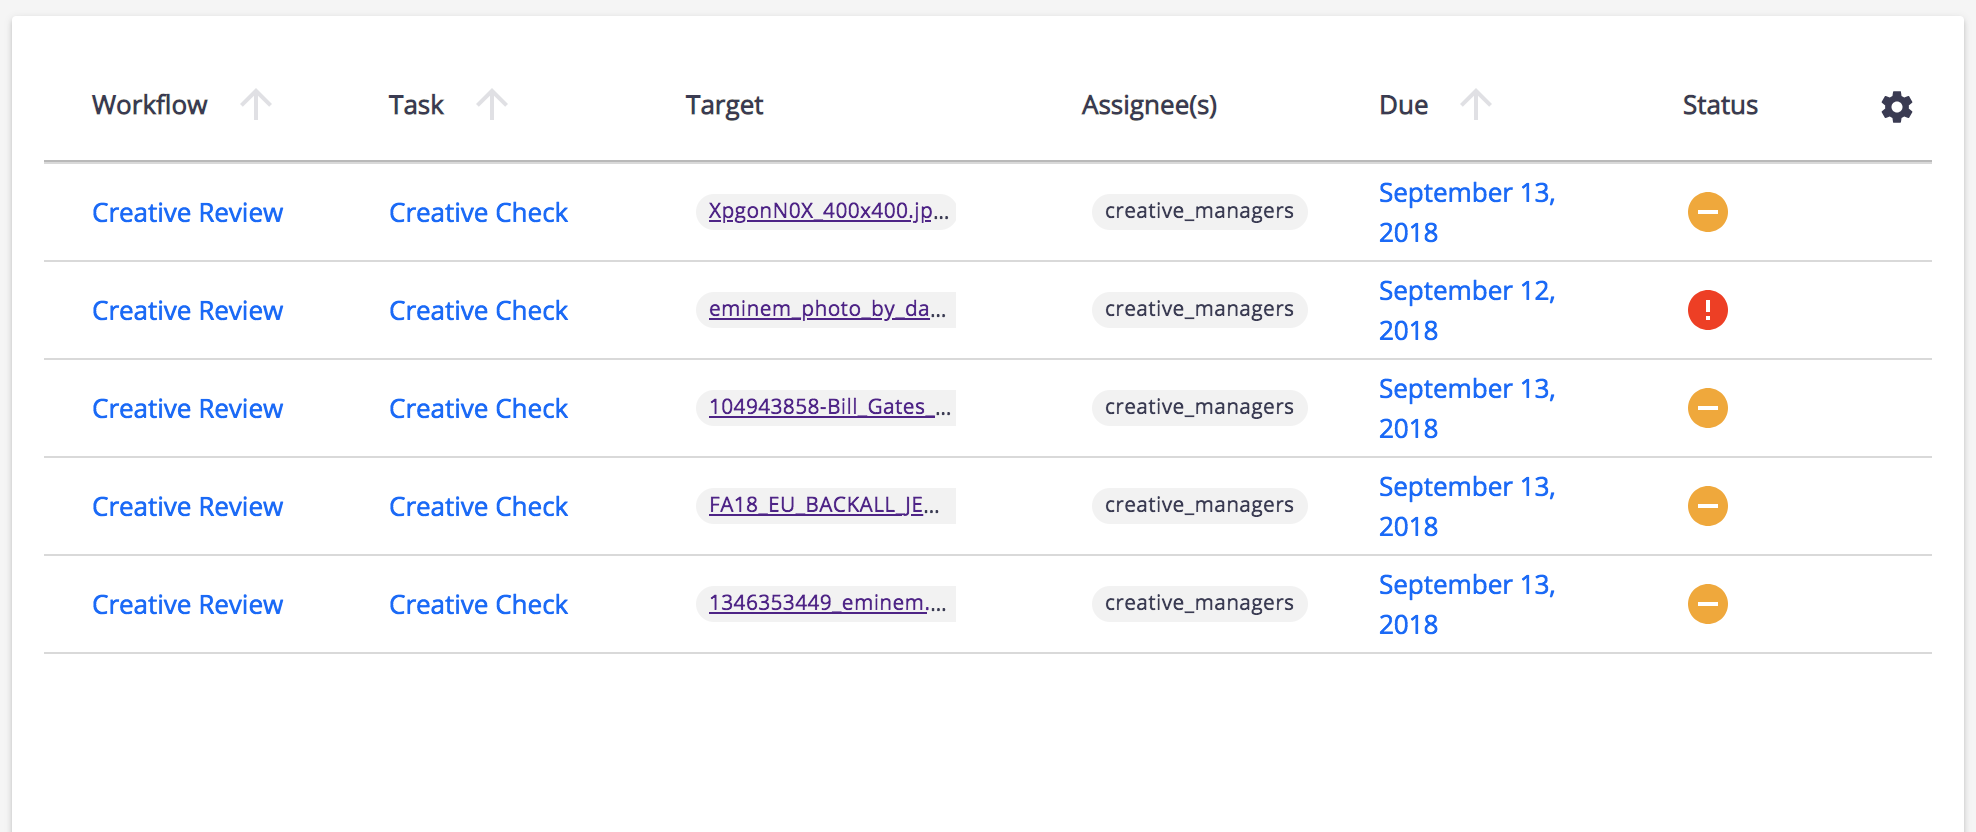
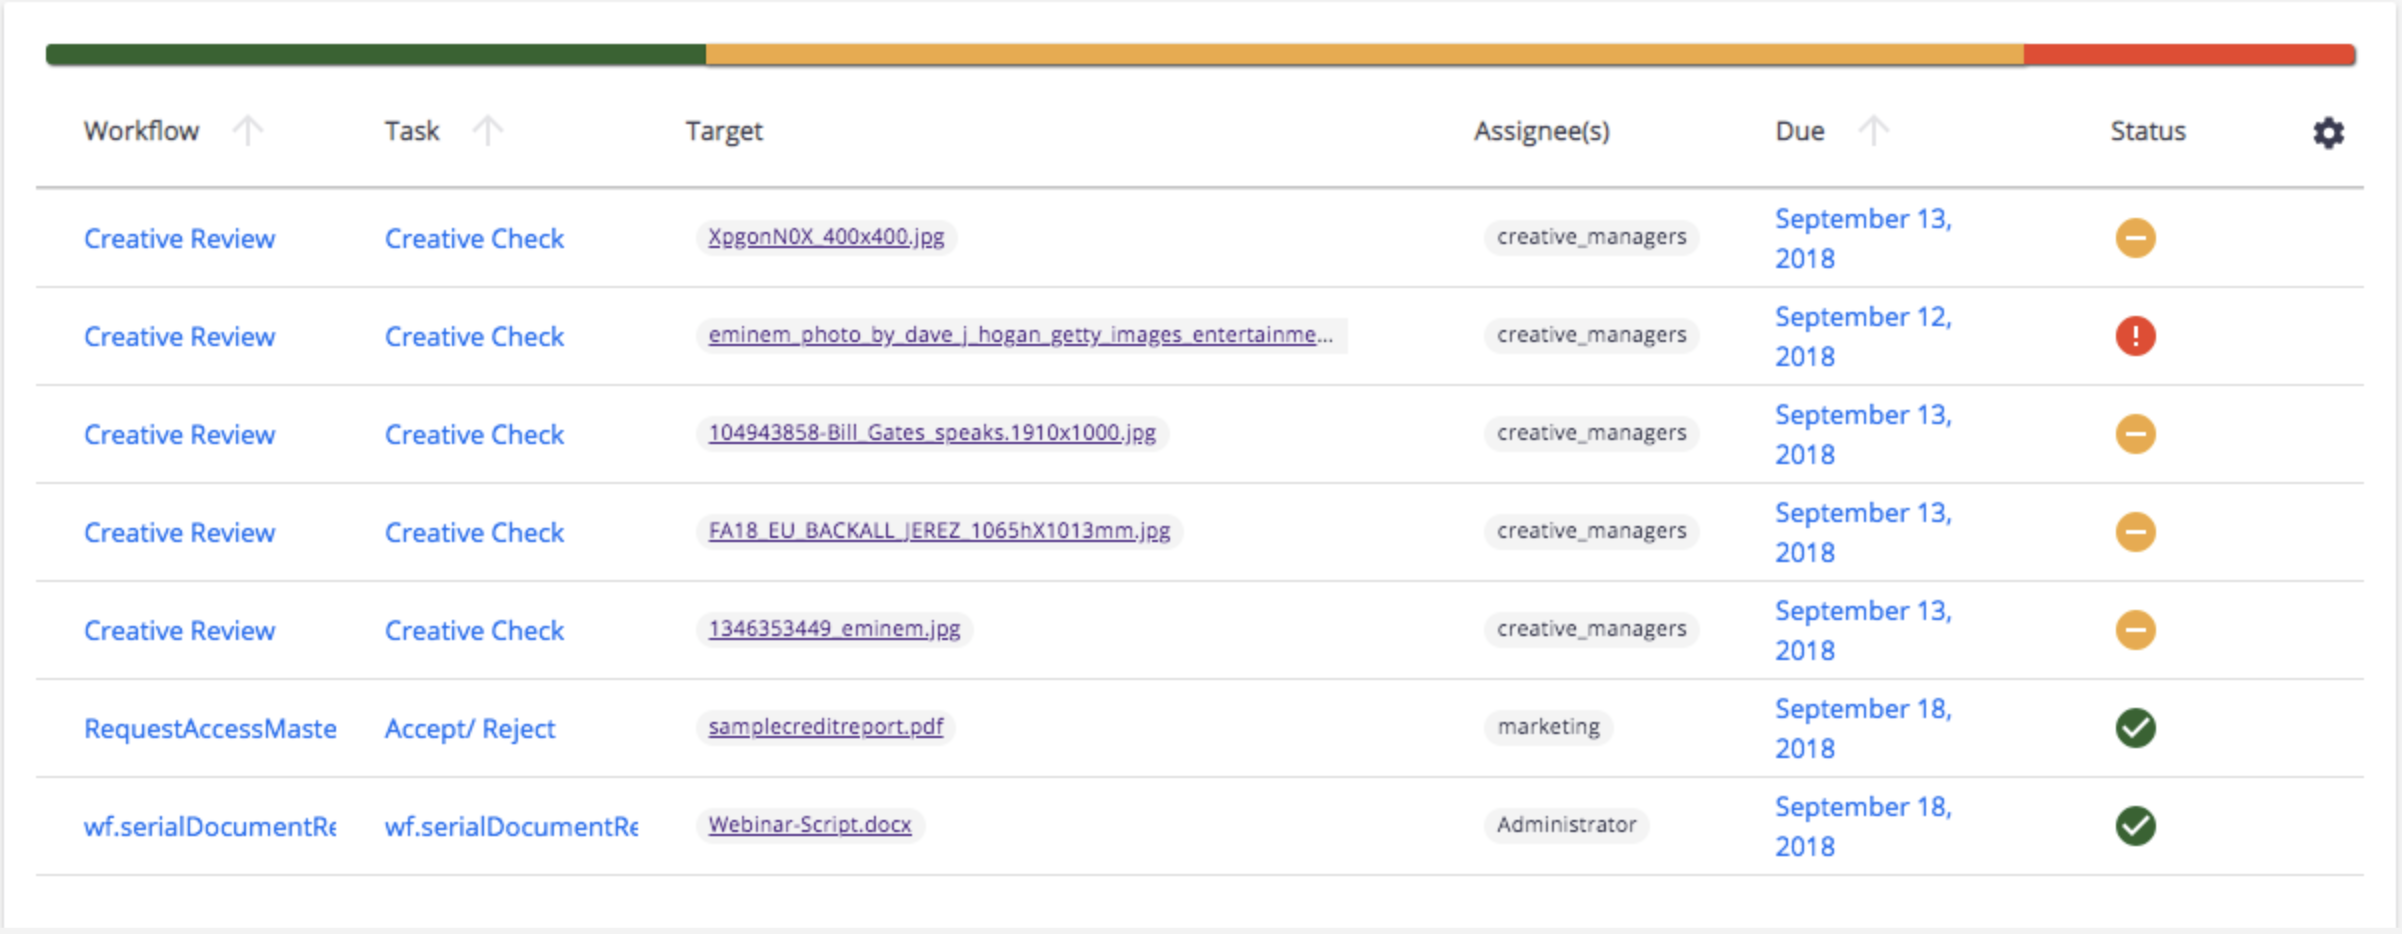
Update with status bar.

diff --git a/workflow-status/ui/workflow-status/workflow-status-bar.html b/workflow-status/ui/workflow-status/workflow-status-bar.html
@@ -1,0 +1,87 @@
+<dom-module id="workflow-status-bar">
+  <template>
+    <style include="iron-flex iron-flex-alignment">
+      :host {
+        display: block;
+      }
+
+      .status-bar-container {
+        padding: 5px;
+      }
+
+      .status-bar-title {
+        font-weight: bold;
+        font-size: large;
+        margin-bottom: 5px;
+      }
+
+      .status-bar {
+        display: flex;
+        width: 100%;
+      }
+
+      .status-bar-red {
+        background-color: #FF2400;
+      }
+
+      .status-bar-orange {
+        background-color: #F9A602;
+      }
+
+      .status-bar-green {
+        background-color: #0B6623;
+      }
+
+      .status-bar-on-schedule {
+        flex-grow: var(--on-schedule-flex-grow);
+      }
+
+      .status-bar-due-today {
+        flex-grow: var(--due-flex-grow);
+      }
+
+      .status-bar-past-due {
+        flex-grow: var(--past-due-flex-grow);
+      }
+
+      .status-bar-segment {
+        height: 10px;
+      }
+    </style>
+
+    <nuxeo-operation auto="true" op="javascript.workflow_status_getStatusBarMetrics" response="{{_statusBarMetrics}}"></nuxeo-operation>
+
+    <div class="status-bar-container">
+      <div class="status-bar">
+        <div class="status-bar-on-schedule status-bar-green status-bar-segment"></div>
+        <div class="status-bar-due-today status-bar-orange status-bar-segment"></div>
+        <div class="status-bar-past-due status-bar-red status-bar-segment"></div>
+      </div>
+    </div>
+
+  </template>
+
+  <script>
+    Polymer({
+      is: 'workflow-status-bar',
+
+      behaviors: [Nuxeo.LayoutBehavior],
+
+      properties: {
+        _statusBarMetrics: {
+          type: Object,
+          observer: "_statusBarMetricsUpdated"
+        }
+      },
+
+      _statusBarMetricsUpdated: function () {
+        if (this._statusBarMetrics) {
+          var statusBarMetrics = JSON.parse(this._statusBarMetrics.value);
+          this.updateStyles({"--due-flex-grow": statusBarMetrics.tasksDue});
+          this.updateStyles({"--on-schedule-flex-grow": statusBarMetrics.tasksOnSchedule});
+          this.updateStyles({"--past-due-flex-grow": statusBarMetrics.tasksPastDue});
+        }
+      }
+    });
+  </script>
+</dom-module>

diff --git a/workflow-status/ui/workflow-status/workflow-status-layout.html b/workflow-status/ui/workflow-status/workflow-status-layout.html
@@ -8,7 +8,14 @@
       paper-card {
         padding: 0;
         border-radius: 2px;
+      }
+
+      .status-list {
         height: calc(100vh - 101px);
+      }
+
+      .status-bar {
+        height: 100px;
       }
 
       nuxeo-data-table {
@@ -22,11 +29,12 @@
 
     <nuxeo-page-provider id="tasksProvider" provider="workflow-status" page-size="20" enrichers="permissions" schemas="dublincore,common,uid,task" headers='{"X-NXfetch.document": "properties", "X-NXtranslate.directoryEntry": "label"}'></nuxeo-page-provider>
 
-    <paper-card class="layout flex">
+    <paper-card class="layout flex status-list">
       <div class="card-content">
+        <workflow-status-bar></workflow-status-bar>
 
         <!-- Table view -->
-        <nuxeo-data-table id="tasksTable" nx-provider="tasksProvider" class="results" settings-enabled="false" empty-label="[[emptyLabel]]" empty-label-when-filtered="[[emptyLabelWhenFiltered]]" on-row-clicked="_navigate">
+        <nuxeo-data-table id="tasksTable" nx-provider="tasksProvider" class="results" settings-enabled="false" empty-label="[[emptyLabel]]" empty-label-when-filtered="[[emptyLabelWhenFiltered]]">
 
           <nuxeo-data-table-column name="Workflow" field="nt:processId" sort-by="nt:processId">
             <template>
@@ -81,11 +89,19 @@
   <script>
     Polymer({
       is: 'workflow-status-layout',
+
       behaviors: [Nuxeo.LayoutBehavior],
+
       properties: {
         visible: {
           type: Boolean,
           observer: '_visibleChanged'
+        }
+      },
+
+      _visibleChanged: function (visible) {
+        if (visible) {
+          this._refresh();
         }
       },
 
@@ -95,21 +111,6 @@
 
       _refresh: function () {
         this.$.tasksTable.fetch();
-      },
-
-      _navigate: function (e) {
-        var detail;
-        if (e.detail.item) {
-          detail = {
-            doc: e.detail.item
-          };
-          this.navigateTo('browse', detail.doc.path);
-        } else {
-          detail = {
-            doc: e.model.item
-          };
-        }
-        this.fire('navigate', detail);
       },
 
       _getTaskTarget: function (item) {

diff --git a/workflow-status/ui/workflow-status/workflow-status-widget.html b/workflow-status/ui/workflow-status/workflow-status-widget.html
@@ -92,7 +92,7 @@
         }
       },
 
-      _daysBetween(date1, date2) {
+      _daysBetween: function (date1, date2) {
         date1 = Date.UTC(date1.getFullYear(), date1.getMonth(), date1.getDate());
         date2 = Date.UTC(date2.getFullYear(), date2.getMonth(), date2.getDate());
         var ms = Math.abs(date1 - date2);

diff --git a/workflow-status/ui/workflow-status-bundle.html b/workflow-status/ui/workflow-status-bundle.html
@@ -1,3 +1,4 @@
+<link rel="import" href="workflow-status/workflow-status-bar.html">
 <link rel="import" href="workflow-status/workflow-status-layout.html">
 <link rel="import" href="workflow-status/workflow-status-widget.html">
 
